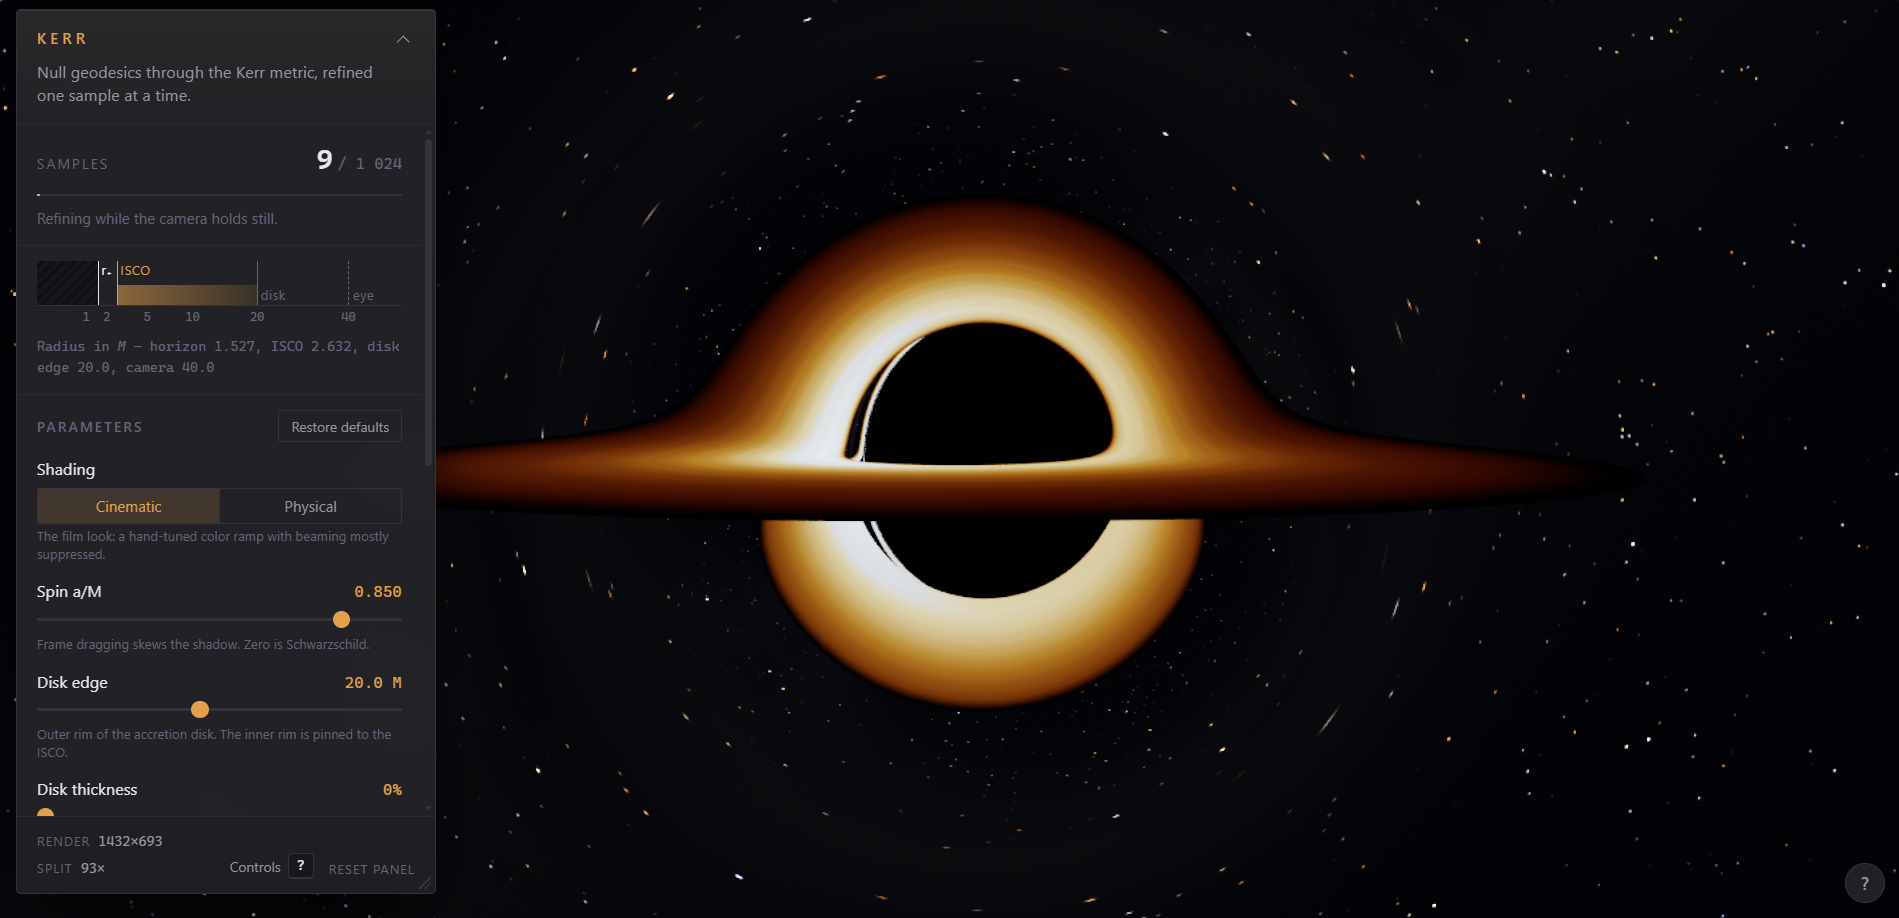
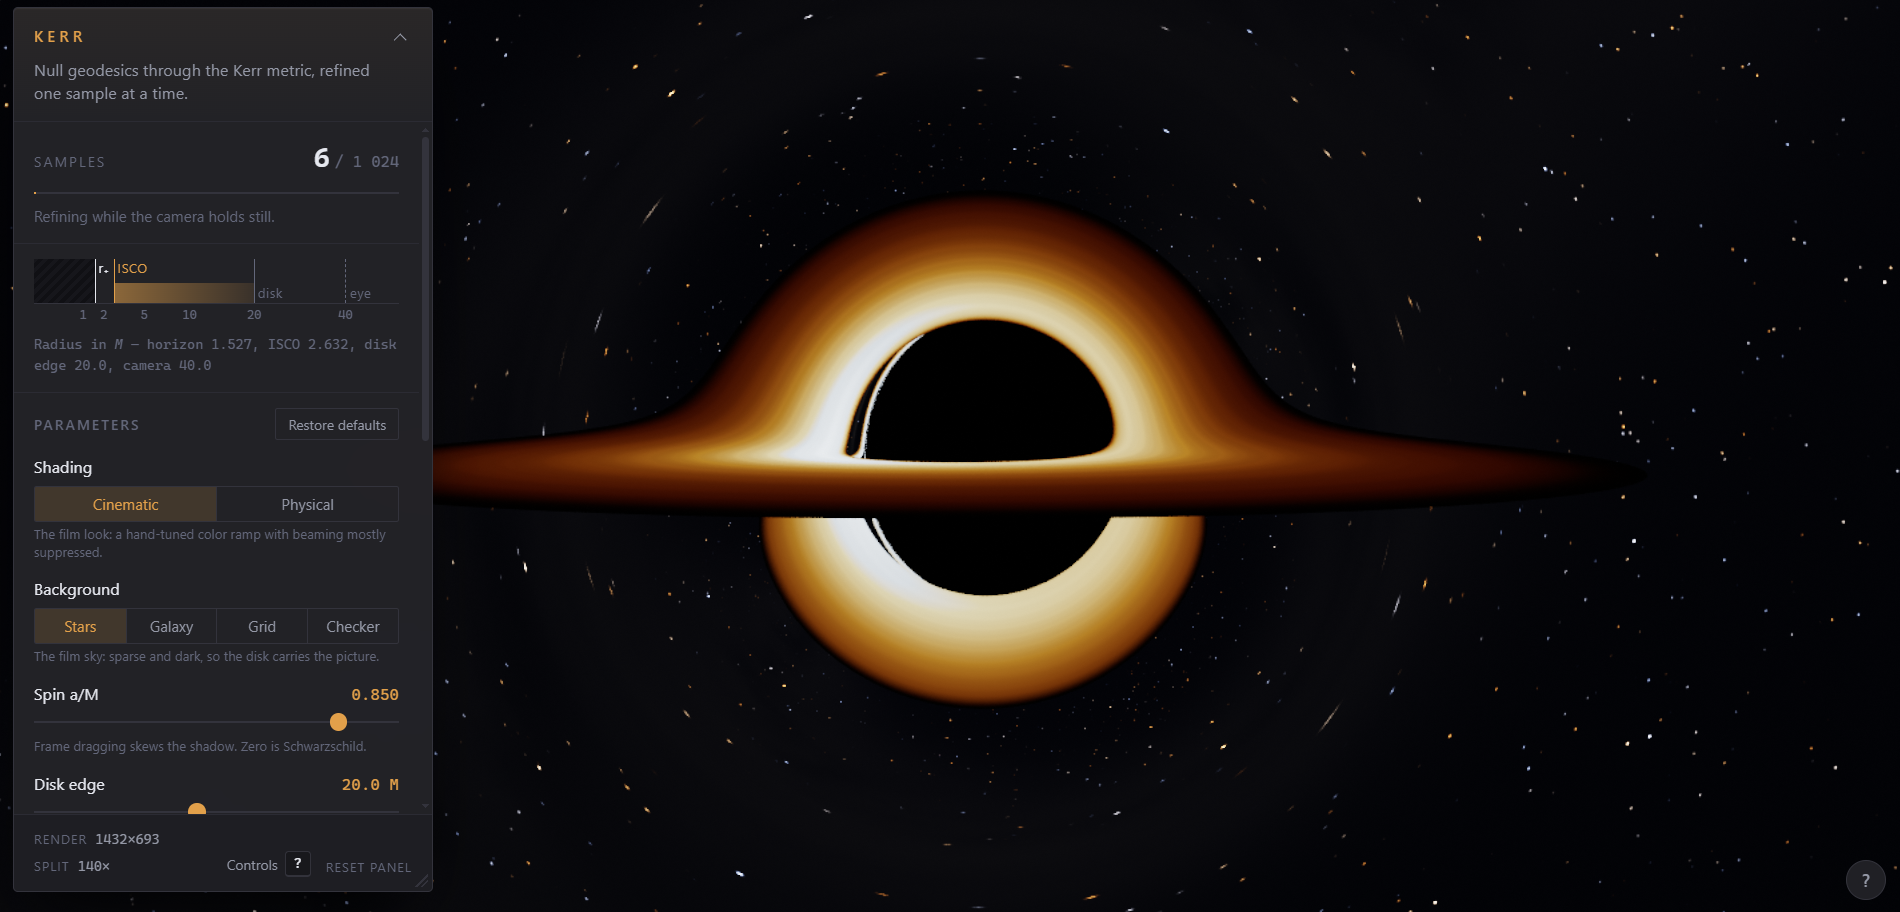
Fix thick-disk occlusion and add selectable lensing backgrounds
Bound and taper the disk slab so rays no longer start inside an infinite cone, and add Galaxy/Grid/Checker skies that make the lensing legible.

diff --git a/src/ui/Controls.tsx b/src/ui/Controls.tsx
@@ -4,7 +4,7 @@ import {
   type RendererStats,
   type SceneParams,
 } from '../gpu/KerrRenderer.ts';
-import type { Shading } from '../gpu/uniforms.ts';
+import type { Background, Shading } from '../gpu/uniforms.ts';
 import { RadialScale } from './RadialScale.tsx';
 import { usePanelLayout } from './usePanelLayout.ts';
 
@@ -25,6 +25,7 @@ type Props = {
   onNumericChange: (key: NumericKey, value: number) => void;
   onDiskToggle: (enabled: boolean) => void;
   onShadingChange: (shading: Shading) => void;
+  onBackgroundChange: (background: Background) => void;
   onRestoreDefaults: () => void;
   onShowHelp: () => void;
   children?: React.ReactNode;
@@ -40,6 +41,29 @@ const formatKelvin = (v: number): string => `${Math.round(v).toLocaleString()} K
 const SHADING_OPTIONS: { value: Shading; label: string }[] = [
   { value: 'cinematic', label: 'Cinematic' },
   { value: 'physical', label: 'Physical' },
+];
+
+const BACKGROUND_OPTIONS: { value: Background; label: string; hint: string }[] = [
+  {
+    value: 'stars',
+    label: 'Stars',
+    hint: 'The film sky: sparse and dark, so the disk carries the picture.',
+  },
+  {
+    value: 'galaxy',
+    label: 'Galaxy',
+    hint: 'A crowded field and a bright Milky Way. Watch the band bend into arcs and reappear, mirrored, just outside the shadow.',
+  },
+  {
+    value: 'grid',
+    label: 'Grid',
+    hint: 'Latitude and longitude about the spin axis. Straight lines curve, the Einstein ring is where the grid folds over, and the whole sky repeats inside it.',
+  },
+  {
+    value: 'checker',
+    label: 'Checker',
+    hint: 'One color per quadrant, lighter in the north. Every lensed copy of a cell is identifiable, and the inner copies come out mirrored.',
+  },
 ];
 
 type SliderProps = {
@@ -93,14 +117,14 @@ function Slider({
   );
 }
 
-type SegmentProps = {
-  value: Shading;
+type SegmentProps<T extends string> = {
+  value: T;
   label: string;
   active: boolean;
-  onSelect: (value: Shading) => void;
+  onSelect: (value: T) => void;
 };
 
-function Segment({ value, label, active, onSelect }: SegmentProps) {
+function Segment<T extends string>({ value, label, active, onSelect }: SegmentProps<T>) {
   const handleClick = useCallback(() => onSelect(value), [onSelect, value]);
   return (
     <button
@@ -122,6 +146,7 @@ export function Controls({
   onNumericChange,
   onDiskToggle,
   onShadingChange,
+  onBackgroundChange,
   onRestoreDefaults,
   onShowHelp,
   children,
@@ -276,6 +301,32 @@ export function Controls({
               {scene.shading === 'physical'
                 ? 'Novikov-Thorne disk, blackbody color, and the exact redshift: gravity, Doppler and frame dragging in one factor. Nothing is tuned.'
                 : 'The film look: a hand-tuned color ramp with beaming mostly suppressed.'}
+            </p>
+          </div>
+
+          <div className="field">
+            <span className="field__head">
+              <span className="field__label" id="background-label">
+                Background
+              </span>
+            </span>
+            <div
+              className="segmented"
+              role="radiogroup"
+              aria-labelledby="background-label"
+            >
+              {BACKGROUND_OPTIONS.map((option) => (
+                <Segment
+                  key={option.value}
+                  value={option.value}
+                  label={option.label}
+                  active={scene.background === option.value}
+                  onSelect={onBackgroundChange}
+                />
+              ))}
+            </div>
+            <p className="field__hint">
+              {BACKGROUND_OPTIONS.find((option) => option.value === scene.background)?.hint}
             </p>
           </div>
 

diff --git a/src/gpu/uniforms.ts b/src/gpu/uniforms.ts
@@ -8,10 +8,25 @@
 
 import type { CameraBasis } from './camera.ts';
 
-export const UNIFORM_FLOATS = 44;
+export const UNIFORM_FLOATS = 48;
 export const UNIFORM_BYTES = UNIFORM_FLOATS * 4;
 
 export type Shading = 'cinematic' | 'physical';
+
+/**
+ * What the escaped rays land on. Stars is the film look; the others are there
+ * to make the lensing legible. A sparse field of point sources hides most of
+ * the map — the sky has to have structure for its distortion to show.
+ */
+export type Background = 'stars' | 'galaxy' | 'grid' | 'checker';
+
+/** Index the shader switches on. Order is the contract with background() in trace.wgsl. */
+export const BACKGROUND_INDEX: Record<Background, number> = {
+  stars: 0,
+  galaxy: 1,
+  grid: 2,
+  checker: 3,
+};
 
 export type RenderParams = {
   spin: number;
@@ -28,6 +43,7 @@ export type RenderParams = {
   /** Disk half-thickness as a fraction of radius. 0 is a mathematical plane. */
   diskThickness: number;
   shading: Shading;
+  background: Background;
   /** Physical mode: emitted temperature at the flux peak, in kelvin. */
   peakTemperature: number;
   /** Physical mode: peak of the Page-Thorne flux profile at this spin. */
@@ -77,6 +93,7 @@ export type UniformInput = {
  *   bloom    vec4  bloomW, bloomH, threshold, strength
  *   disk     vec4  physical shading flag, peakTemperature, 1/fluxPeak, luminanceNorm
  *   view     vec4  presentW, presentH, ditherSeed, pixel angle (radians)
+ *   sky      vec4  background index, unused, unused, unused
  */
 export function packUniforms(target: Float32Array, input: UniformInput): void {
   const {
@@ -152,4 +169,9 @@ export function packUniforms(target: Float32Array, input: UniformInput): void {
   // Angular size of one traced pixel. Stars are splatted at no less than this,
   // so their brightness does not depend on the trace resolution.
   target[43] = height === 0 ? 0 : (2 * basis.tanHalfFov) / height;
+
+  target[44] = BACKGROUND_INDEX[params.background];
+  target[45] = 0;
+  target[46] = 0;
+  target[47] = 0;
 }

diff --git a/src/gpu/KerrRenderer.ts b/src/gpu/KerrRenderer.ts
@@ -42,6 +42,7 @@ import {
   UNIFORM_BYTES,
   UNIFORM_FLOATS,
   packUniforms,
+  type Background,
   type RenderParams,
   type Shading,
 } from './uniforms.ts';
@@ -59,6 +60,8 @@ export type SceneParams = {
   diskThickness: number;
   /** Cinematic is the stylized film look; Physical is Novikov-Thorne + exact g. */
   shading: Shading;
+  /** What escaped rays see. The non-film skies exist to make the lensing legible. */
+  background: Background;
   /** Physical mode: emitted temperature at the peak of the flux profile, K. */
   peakTemperature: number;
 };
@@ -89,6 +92,9 @@ export const DEFAULT_SCENE: SceneParams = {
   // See slabEntry in trace.wgsl.
   diskThickness: 0.0,
   shading: 'cinematic',
+  // A crowded sky rather than the film's sparse one: lensing only shows where
+  // the background has structure to distort. 'stars' is the darker film look.
+  background: 'galaxy',
   // Warm white at the hottest ring. Real stellar-mass disks peak in X-rays;
   // this is scaled to where the color is visible.
   peakTemperature: 7500,
@@ -498,6 +504,7 @@ export class KerrRenderer {
       next.dopplerBeaming !== previous.dopplerBeaming ||
       next.diskThickness !== previous.diskThickness ||
       next.shading !== previous.shading ||
+      next.background !== previous.background ||
       next.peakTemperature !== previous.peakTemperature;
 
     // A slider drag is an interaction like a camera drag: preview it coarse and
@@ -750,6 +757,7 @@ export class KerrRenderer {
       dopplerBeaming: this.#scene.dopplerBeaming,
       diskThickness: this.#scene.diskThickness,
       shading: this.#scene.shading,
+      background: this.#scene.background,
       peakTemperature: this.#scene.peakTemperature,
       fluxPeak: this.#fluxPeak,
       luminanceNorm: this.#luminanceNorm,

diff --git a/test/uniforms.test.ts b/test/uniforms.test.ts
@@ -45,6 +45,7 @@ const PARAMS: RenderParams = {
   dopplerBeaming: 0.15,
   diskThickness: 0.02,
   shading: 'physical',
+  background: 'checker',
   peakTemperature: 7500,
   fluxPeak: 0.004,
   luminanceNorm: 0.03125,
@@ -127,6 +128,10 @@ describe('packUniforms slot layout', () => {
     assert.deepEqual(vec4(data, 10), [600, 300, 9, Math.fround((2 * 0.5) / 400)]);
   });
 
+  test('slot 11 — background index', () => {
+    assert.deepEqual(vec4(data, 11), [3, 0, 0, 0]);
+  });
+
   test('the right vector is not confused with the forward vector', () => {
     // Slots 1 and 3 are adjacent and both hold a basis vector, which makes them
     // the easiest pair in the buffer to transpose.
@@ -156,6 +161,15 @@ describe('packUniforms derived values', () => {
   test('shading is encoded as a float flag', () => {
     assert.equal(pack({ params: { ...PARAMS, shading: 'physical' } })[36], 1);
     assert.equal(pack({ params: { ...PARAMS, shading: 'cinematic' } })[36], 0);
+  });
+
+  test('background is encoded by its index in the shader switch', () => {
+    const encode = (background: RenderParams['background']) =>
+      pack({ params: { ...PARAMS, background } })[44];
+    assert.deepEqual(
+      (['stars', 'galaxy', 'grid', 'checker'] as const).map(encode),
+      [0, 1, 2, 3],
+    );
   });
 
   test('a missing flux peak does not produce a non-finite reciprocal', () => {

diff --git a/src/App.tsx b/src/App.tsx
@@ -11,7 +11,7 @@ import {
   validatePhysicsOnGpu,
   type ValidationReport,
 } from './gpu/validatePhysics.ts';
-import type { Shading } from './gpu/uniforms.ts';
+import type { Background, Shading } from './gpu/uniforms.ts';
 import { Controls } from './ui/Controls.tsx';
 import { HelpPanel } from './ui/HelpPanel.tsx';
 import { attachOrbitControls, isFormControl } from './ui/orbitControls.ts';
@@ -156,6 +156,10 @@ export default function App() {
     setScene((current) => ({ ...current, shading }));
   }, []);
 
+  const handleBackgroundChange = useCallback((background: Background) => {
+    setScene((current) => ({ ...current, background }));
+  }, []);
+
   const showHelp = useCallback(() => setHelpOpen(true), []);
   const hideHelp = useCallback(() => setHelpOpen(false), []);
 
@@ -230,6 +234,7 @@ export default function App() {
         onNumericChange={handleNumericChange}
         onDiskToggle={handleDiskToggle}
         onShadingChange={handleShadingChange}
+        onBackgroundChange={handleBackgroundChange}
         onRestoreDefaults={handleRestoreDefaults}
         onShowHelp={showHelp}
       >

diff --git a/test/renderer.test.ts b/test/renderer.test.ts
@@ -69,6 +69,7 @@ const SLOT = {
   peakTemperature: 37,
   presentWidth: 40,
   presentHeight: 41,
+  background: 44,
 };
 
 const read = (frame: FrameRecord, slot: keyof typeof SLOT): number =>
@@ -171,6 +172,13 @@ describe('frame structure', () => {
     const frame = gpu.frames.at(-1)!;
     assert.equal(read(frame, 'shading'), 1);
     assert.equal(read(frame, 'peakTemperature'), 9000);
+  });
+
+  test('the background choice reaches the shader', async () => {
+    const { renderer, gpu } = await setup();
+    renderer.setScene({ background: 'grid' });
+    tick(gpu, 1);
+    assert.equal(read(gpu.frames.at(-1)!, 'background'), 2);
   });
 
   test('the dispatch covers its band at one workgroup per 8x8 pixels', async () => {

diff --git a/test/shaderParity.test.ts b/test/shaderParity.test.ts
@@ -182,6 +182,7 @@ describe('uniform buffer layout', () => {
     'bloom',
     'disk',
     'view',
+    'sky',
   ];
 
   test('trace.wgsl declares the expected fields in the expected order', () => {

diff --git a/README.md b/README.md
@@ -24,6 +24,8 @@ or **Controls** in the panel footer) for the full list.
 Sliders control spin, disk outer radius, disk thickness, render resolution,
 exposure and glow, and a **Shading** switch chooses between the stylized
 Cinematic disk and a Physical one (see [Physical shading](#physical-shading)).
+A **Background** switch picks the sky the escaped rays land on (see
+[Backgrounds](#backgrounds)).
 The control panel can be dragged, resized and collapsed — see
 [The panel](#the-panel).
 
@@ -314,8 +316,26 @@ light at any resolution instead of sparkling when the trace goes coarse.
 The splat stays that small on purpose. From 40 M the Einstein radius is about
 18°, so the whole field of view is strongly lensed, and the shear stretches
 anything with a width on the sky into a tangential arc — correct for an extended
-source, wrong for a star. A faint procedural Milky Way sits under them, and its
+source, wrong for a star. A procedural Milky Way sits under them, and its
 lensed image around the shadow is real.
+
+### Backgrounds
+
+Lensing is a map from the sky to the screen, and it only shows where the sky
+has structure. A sparse field of point stars hides most of that map: a star is
+shifted and brightened but still reads as a dot. So the sky is selectable:
+
+- **Galaxy** (the default) — a crowded star field and a bright Milky Way. The
+  band bends into arcs and reappears, mirrored, just outside the shadow.
+- **Stars** — the dark, sparse film sky, where the disk carries the picture.
+- **Grid** — latitude and longitude lines about the spin axis, every 10°.
+- **Checker** — a checkerboard with one color per quadrant, after Bohn et al.
+  (2015).
+
+Grid and Checker are measured from the point directly behind the hole at the
+default camera, so the four quadrants meet behind the shadow and the mirrored
+secondary image of the sky inside the Einstein ring is plain to see. They stay
+fixed to the world, so orbiting sweeps them past.
 
 ### Lensing level of detail
 
